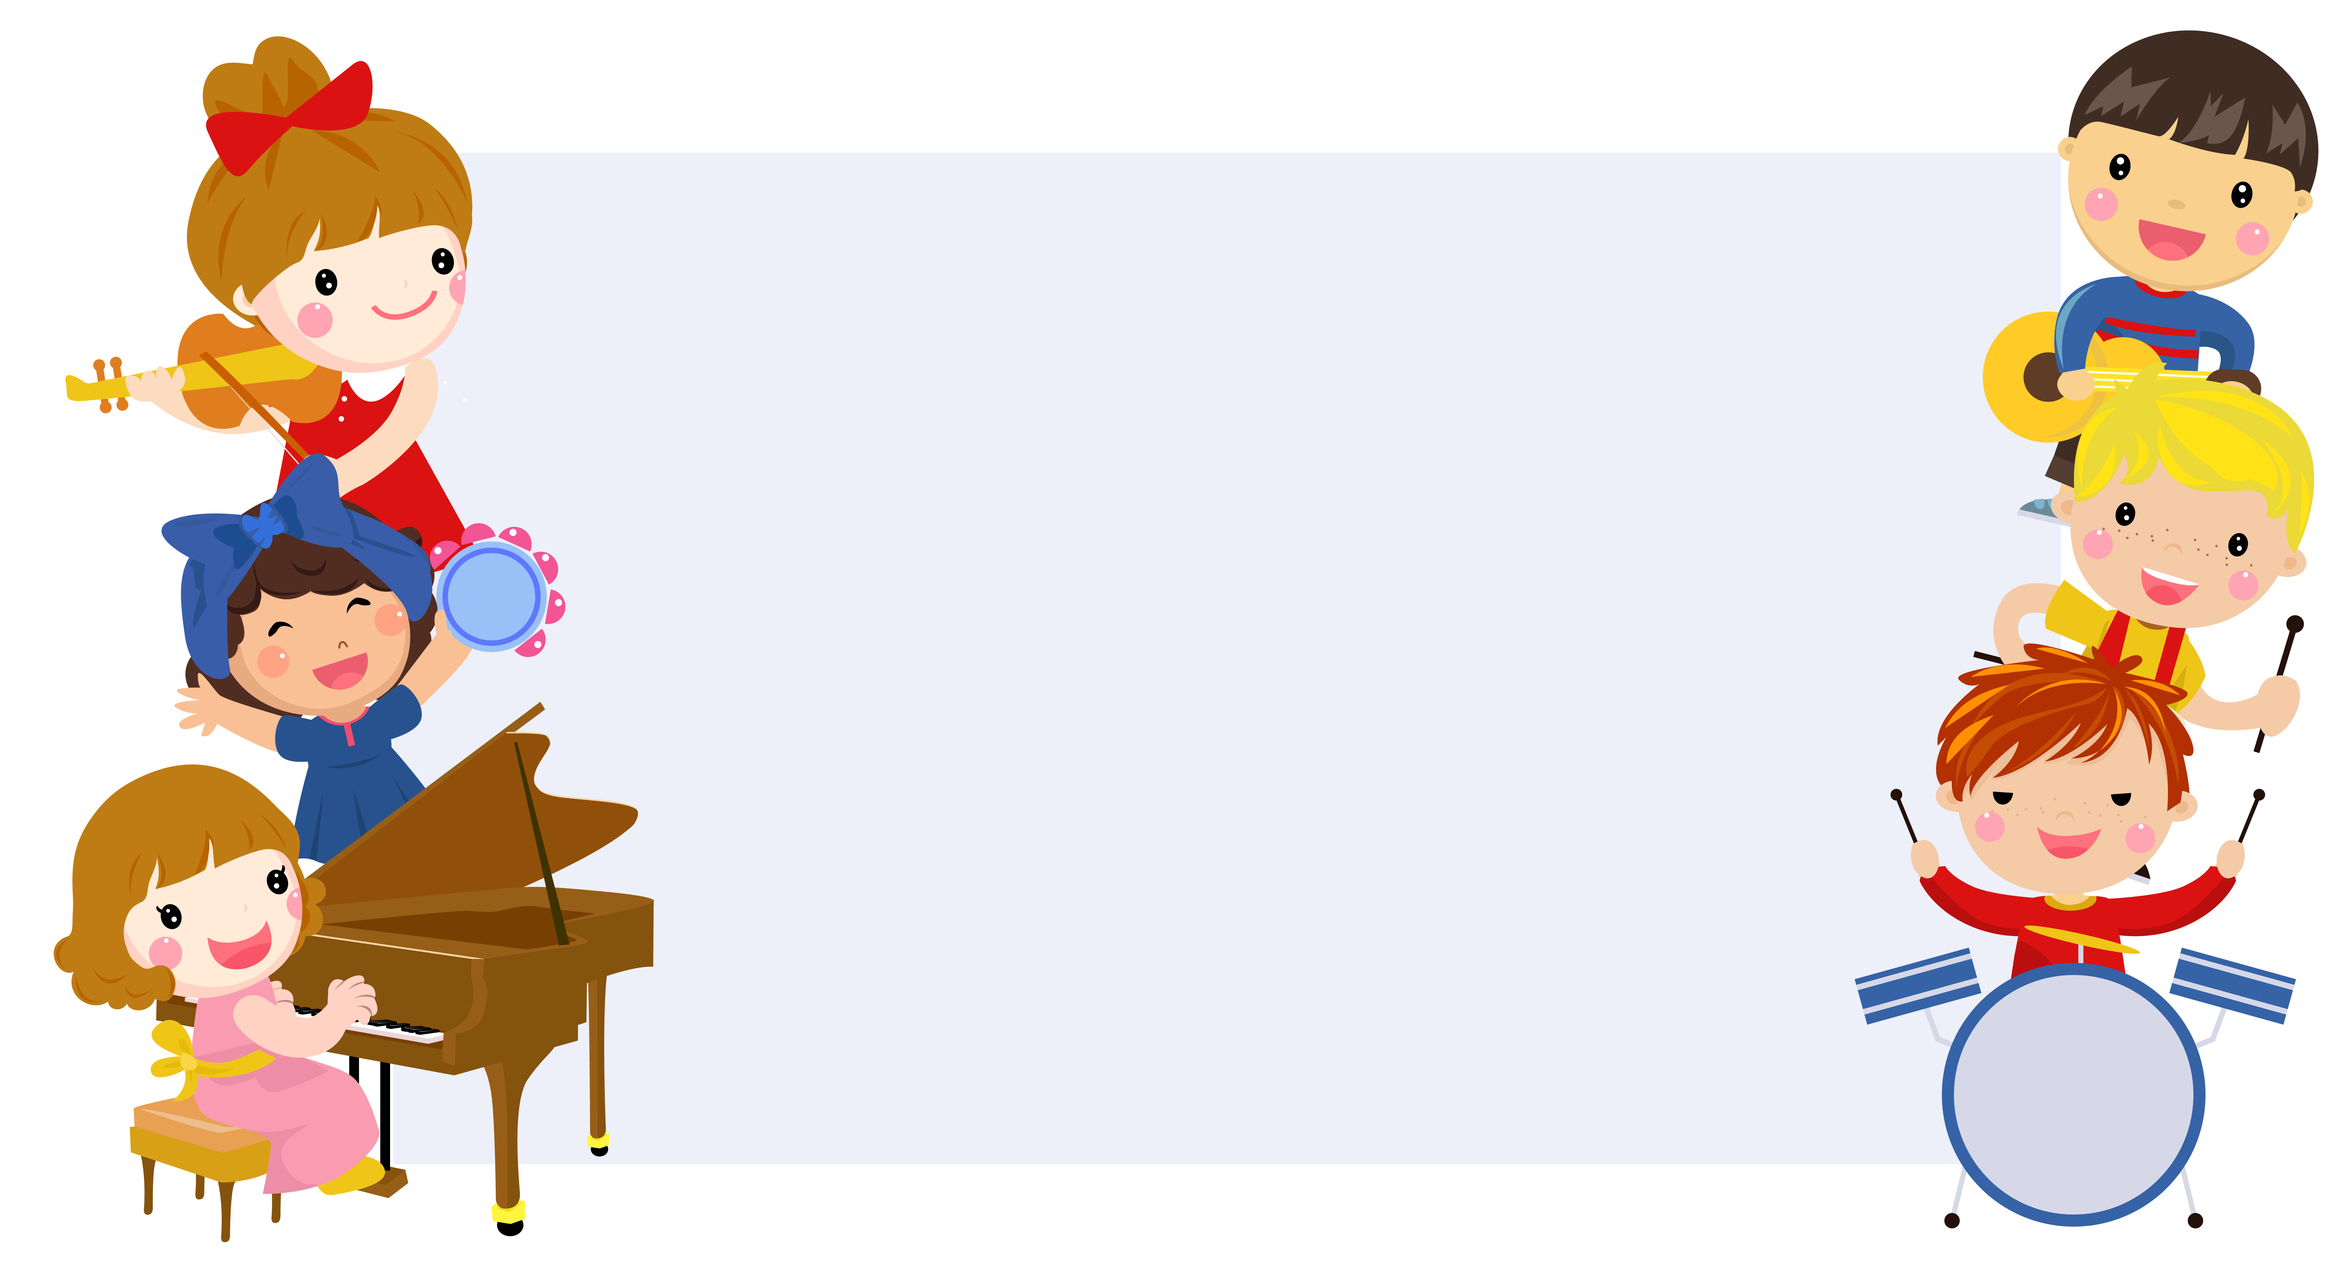
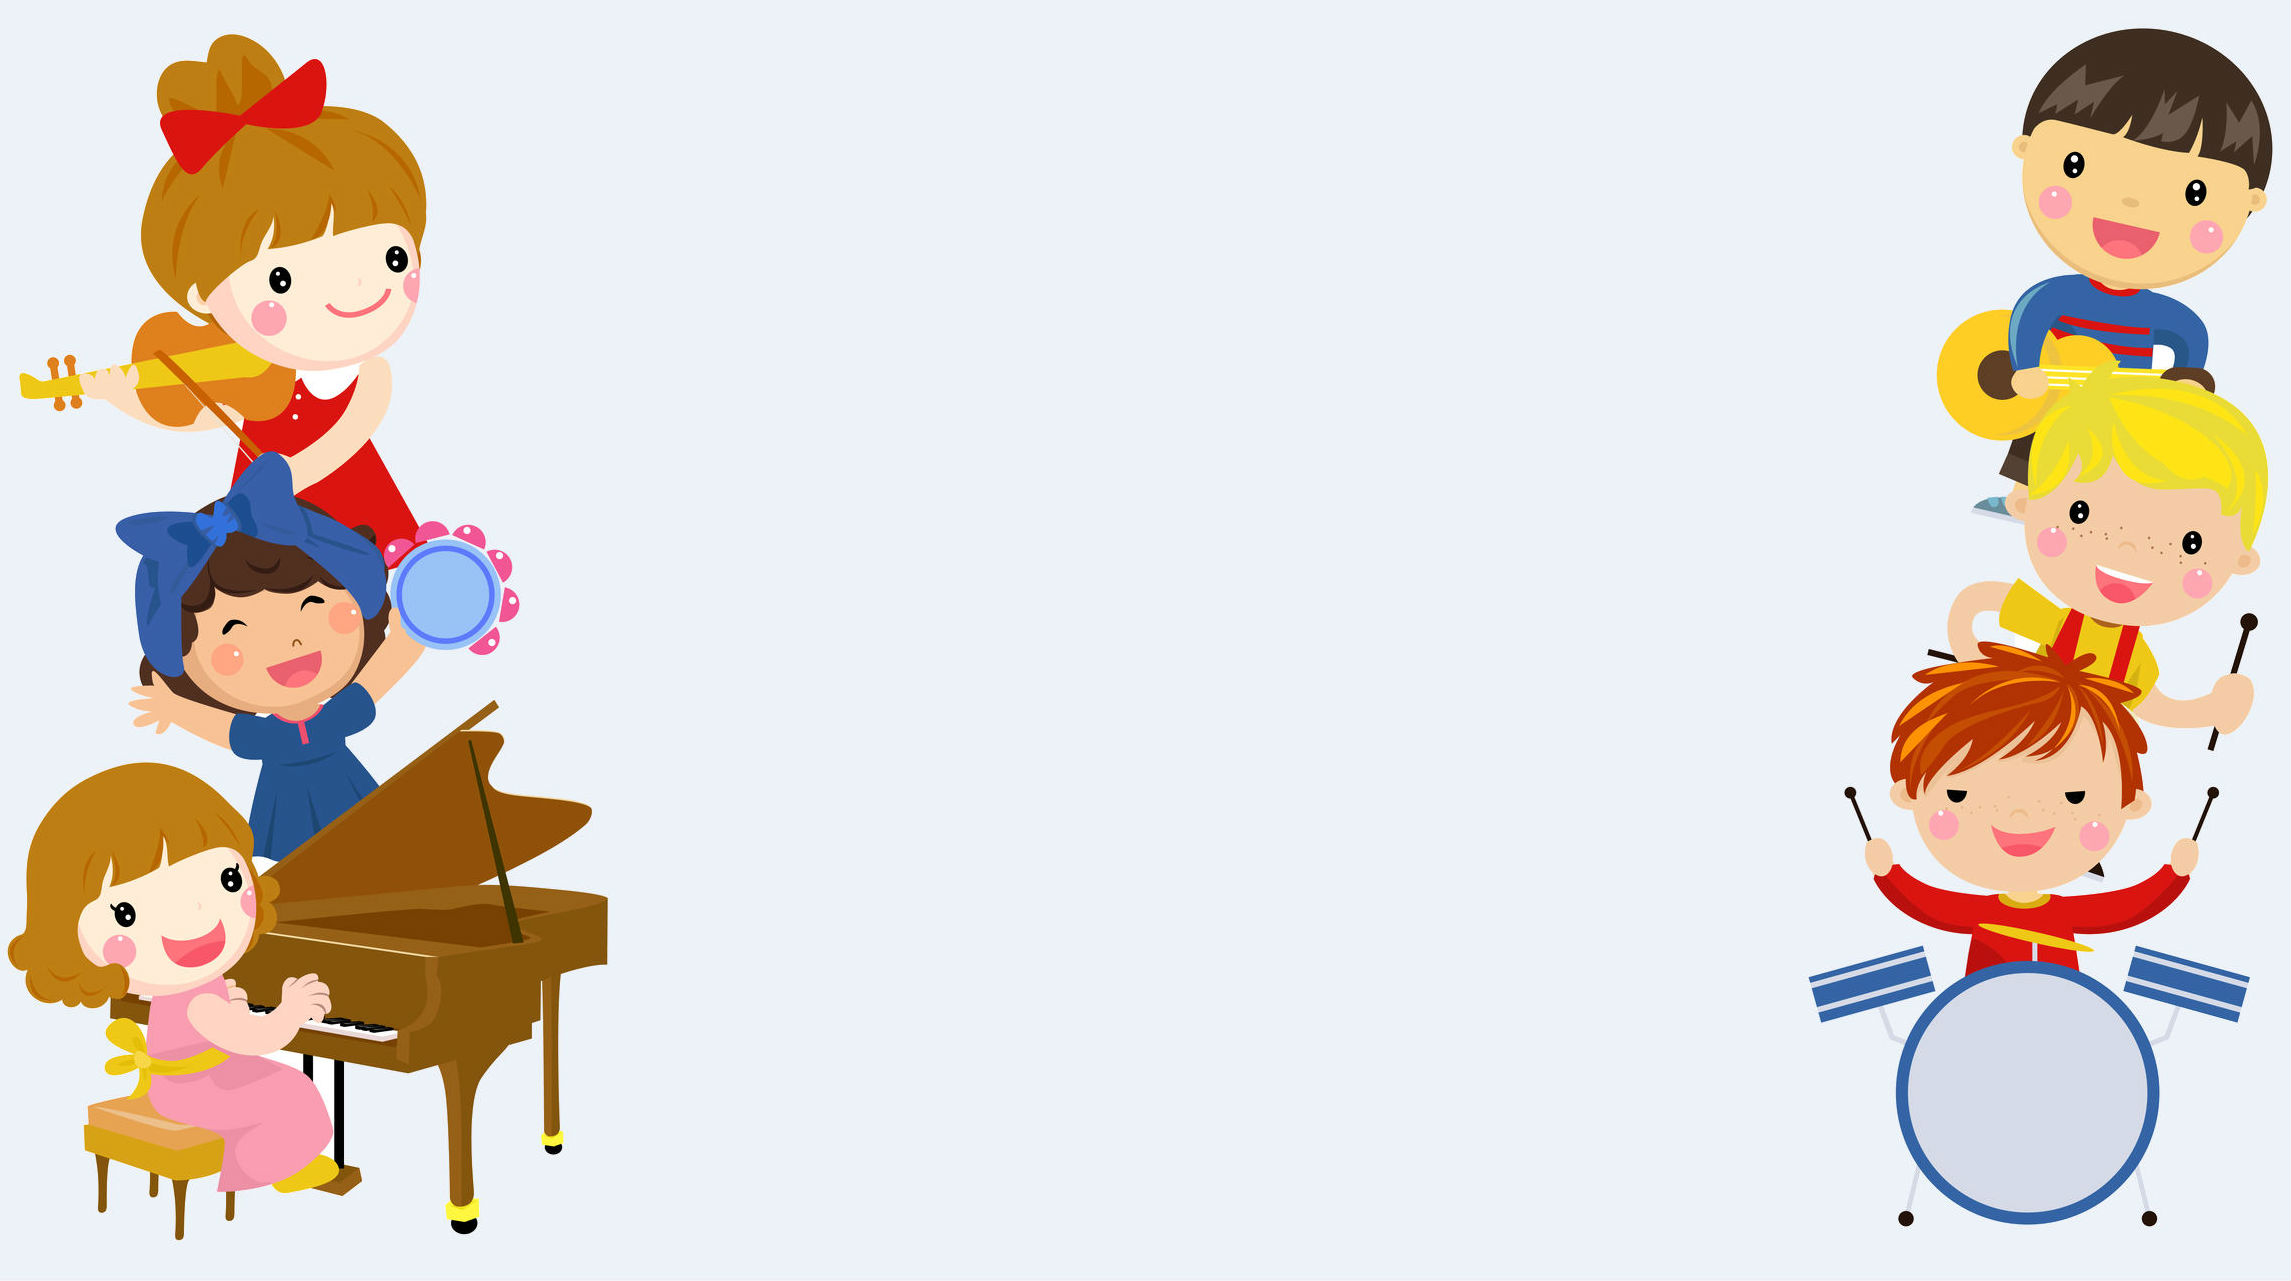
Confetti when note correct

diff --git a/src/App.js b/src/App.js
@@ -4,6 +4,7 @@ import Controls from "./Controls";
 import "../node_modules/bootstrap/dist/css/bootstrap.css";
 import "./App.css";
 import { connect } from "react-redux";
+import Confetti from "react-confetti";
 
 class App extends Component {
   componentDidMount() {
@@ -21,10 +22,12 @@ class App extends Component {
   handleSelection = guessedNote => {
     if (this.props.canGuess) {
       if (guessedNote === this.props.currentNote[0]) {
+        this.props.runConfetti(true);
         this.props.setMessageTo("     Brawo!");
         this.props.incrementScore();
         this.props.blockGuessing();
         setTimeout(() => {
+          this.props.runConfetti(false);
           this.generateNewNote();
           this.props.unblockGuessing();
           this.props.setMessageTo("Jaka to nutka?");
@@ -64,7 +67,7 @@ class App extends Component {
       position: "relative",
       marginTop: "5%",
       marginBottom: "10%",
-      left: "20%"
+      left: "14%"
     };
 
     let containerStyle = {
@@ -94,22 +97,41 @@ class App extends Component {
     }
 
     return (
-      <div style={containerStyle}>
-        <h1 style={scoreStyle}>
-          Twój wynik: {this.props.score} {resetButton}
-        </h1>
-
-        <h1 style={messageStyle}>{this.props.message}</h1>
-
-        <div style={controlsStyle}>
-          <Controls handleSelection={this.handleSelection} />
-        </div>
-
-        <div style={staveStyle}>
-          <Stave
-            currentNote={this.props.currentNote}
-            currentNoteNo={this.props.currentNoteNumber}
+      <div>
+        <div
+          style={{
+            position: "absolute",
+            top: 0,
+            left: 0,
+            width: "100%",
+            height: "100%"
+          }}
+        >
+          <Confetti
+            width={window.innerWidth}
+            height={window.innerHeight}
+            numberOfPieces={300}
+            run={true}
+            recycle={this.props.recycle}
           />
+        </div>
+        <div style={containerStyle}>
+          <h1 style={scoreStyle}>
+            Twój wynik: {this.props.score} {resetButton}
+          </h1>
+
+          <h1 style={messageStyle}>{this.props.message}</h1>
+
+          <div style={controlsStyle}>
+            <Controls handleSelection={this.handleSelection} />
+          </div>
+
+          <div style={staveStyle}>
+            <Stave
+              currentNote={this.props.currentNote}
+              currentNoteNo={this.props.currentNoteNumber}
+            />
+          </div>
         </div>
       </div>
     );
@@ -123,7 +145,8 @@ const mapStateToProps = state => {
     score: state.score,
     canGuess: state.canGuess,
     currentNote: state.currentNote,
-    currentNoteNumber: state.currentNoteNumber
+    currentNoteNumber: state.currentNoteNumber,
+    recycle: state.recycle
   };
 };
 
@@ -159,6 +182,12 @@ const mapDispachToProps = dispach => {
     resetScore: () => {
       dispach({
         type: "RESET_SCORE"
+      });
+    },
+    runConfetti: bool => {
+      dispach({
+        type: "RUN_CONFETTI",
+        value: bool
       });
     }
   };

diff --git a/src/store/reducer.js b/src/store/reducer.js
@@ -22,7 +22,8 @@ const initialState = {
   score: 0,
   canGuess: true,
   currentNote: null,
-  currentNoteNumber: null
+  currentNoteNumber: null,
+  recycle: false
 };
 
 const reducer = (state = initialState, action) => {
@@ -46,6 +47,11 @@ const reducer = (state = initialState, action) => {
 
   if (action.type === "RESET_SCORE") {
     newState.score = 0;
+  }
+
+  if (action.type === "RUN_CONFETTI") {
+    //newState.runConfetti = action.value;
+    newState.recycle = action.value;
   }
 
   if (action.type === "SET_NEW_NOTE") {

diff --git a/src/App.css b/src/App.css
@@ -121,7 +121,7 @@ a {
 
 html {
   background: url("./background.jpg") no-repeat center center fixed;
-  background-position: -50px 0px;
+  background-position: 0px 0px;
   -webkit-background-size: cover;
   -moz-background-size: cover;
   -o-background-size: cover;

diff --git a/src/Note.js b/src/Note.js
@@ -42,7 +42,7 @@ class Note extends Component {
         style = {
           position: "absolute",
           left: 65,
-          top: 83
+          top: 84
         };
         break;
 
